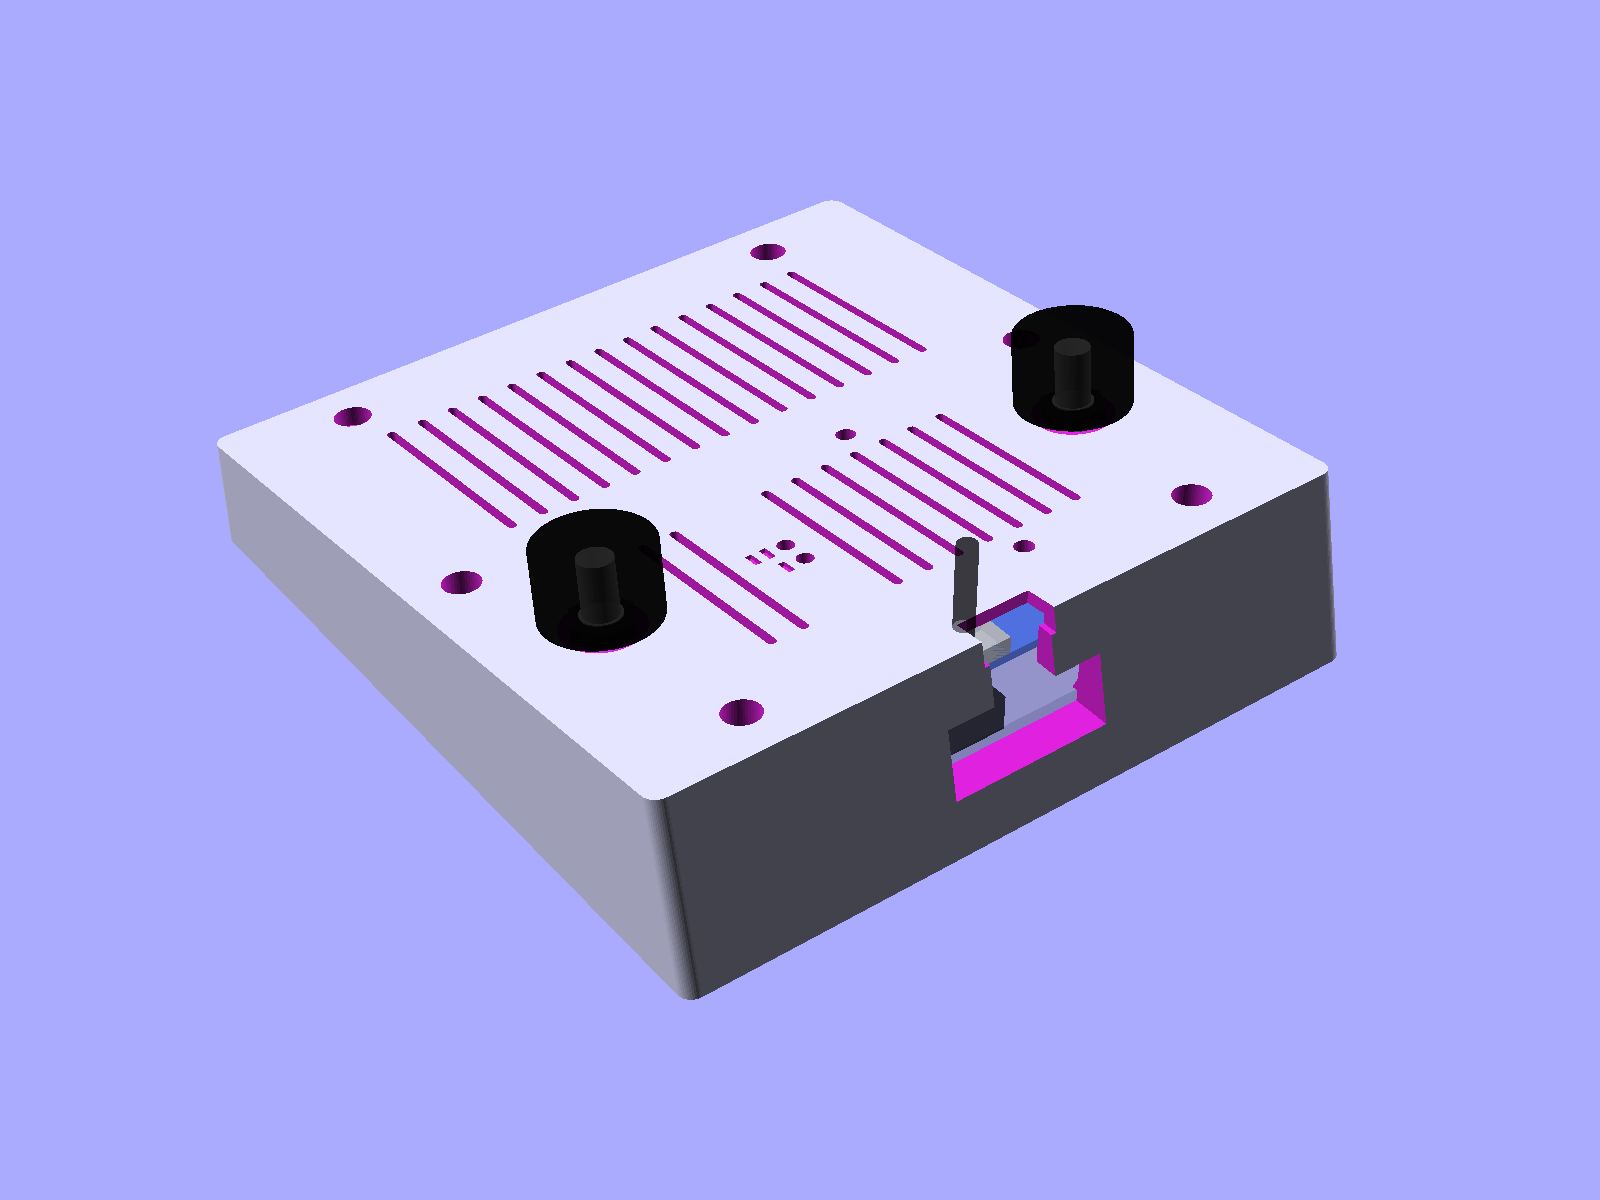
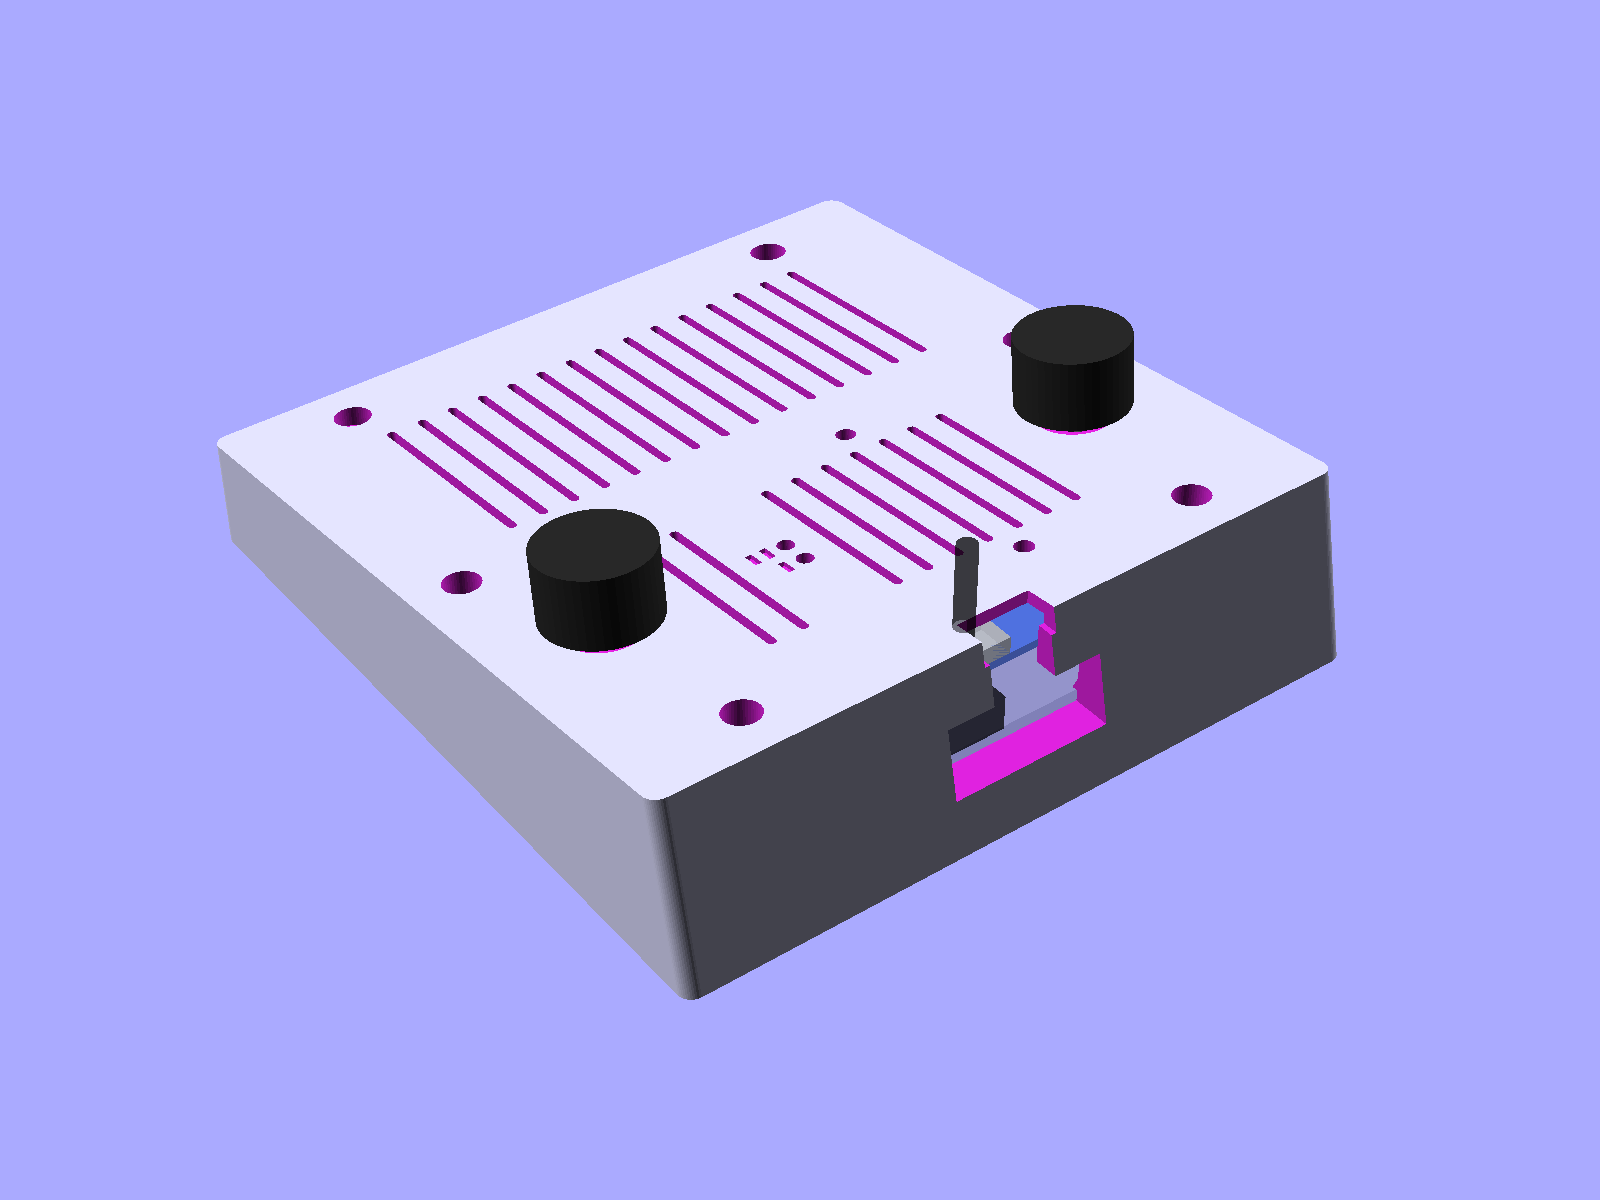
Add a back-angle product render showing the knobs
Same product scene as render_product.png, seen from the back-right and
slightly above, so both encoder knobs, the vents and the cable exit are
visible: output/v2/render_product_back.png. The knob mock-up is now an
opaque dark grey so it shades as a cylinder instead of showing the shaft
through it; the assembly render is regenerated for the same reason.
README lists the file and the render command.

Claude-Session: https://claude.ai/code/session_01Cnri5RnKevyQ1RdwpxxSGL

Changed region(s): [[0.3125, 0.4008, 0.4375, 0.4933], [0.625, 0.2467, 0.7188, 0.3083]]

diff --git a/enclosure/README.md b/enclosure/README.md
@@ -18,7 +18,7 @@ leaning back 12 degrees.
 | `output/v1/p64_enclosure_service.stl` | v1 bureau variant (MJF/SLA): 0.45 mm fit clearance instead of 0.3 mm. The file ordered on 2026-09-05. |
 | `output/v1/render_*.png` | v1 preview renders (back, front with mock-ups, side, sections, bottom, print orientation). |
 | `src/p64_enclosure_v2.scad` | **v2**: v1 plus two rotary encoders on the back face (see [v2](#v2-two-rotary-encoders-on-the-back)). Kept as a separate file so v1 stays as printed. |
-| `output/v2/` | v2 outputs under the same file names: `p64_enclosure_print.stl` / `.3mf`, `p64_enclosure_service.stl` (0.45 mm clearance), and renders (back, assembly with knobs, section through an encoder, print orientation, and `render_product.png`: the assembled display standing on a table, seen from the front-left). |
+| `output/v2/` | v2 outputs under the same file names: `p64_enclosure_print.stl` / `.3mf`, `p64_enclosure_service.stl` (0.45 mm clearance), and renders (back, assembly with knobs, section through an encoder, print orientation, and `render_product.png` / `render_product_back.png`: the assembled display standing on a table, seen from the front-left and from the back-right with the knobs). |
 
 Each shell version gets its own sub-folder under `output/` with identical file names inside;
 the version lives in the folder name (and in the source file name under `src/`).
@@ -192,7 +192,8 @@ openscad -o output/v2/render_back.png        -D "part=\"shell\""       --imgsize
 openscad -o output/v2/render_assembly.png    -D "part=\"assembly\""    --imgsize=1600,1200 --projection=p --colorscheme=Metallic --camera=-235,-327,307,0,-12,-8 src/p64_enclosure_v2.scad
 openscad -o output/v2/render_section_enc.png -D "part=\"section_enc\"" --imgsize=1600,1200 --projection=p --colorscheme=Metallic --camera=-252,-48,94,60,0,8 src/p64_enclosure_v2.scad
 openscad -o output/v2/render_print.png       -D "part=\"print\""       --imgsize=1600,1200 --projection=p --colorscheme=Metallic --camera=-270,-350,270,0,0,15 src/p64_enclosure_v2.scad
-openscad -o output/v2/render_product.png     -D "part=\"product\""     --imgsize=1600,1200 --projection=p --colorscheme=Metallic --camera=300,495,180,0,0,66 src/p64_enclosure_v2.scad
+openscad -o output/v2/render_product.png      -D "part=\"product\""    --imgsize=1600,1200 --projection=p --colorscheme=Metallic --camera=300,495,180,0,0,66 src/p64_enclosure_v2.scad
+openscad -o output/v2/render_product_back.png -D "part=\"product\""    --imgsize=1600,1200 --projection=p --colorscheme=Metallic --camera=308,-440,283,0,0,60 src/p64_enclosure_v2.scad
 ```
 
 `part = "product"` stands the assembled shell on its wedge foot (front towards +Y, leaning
